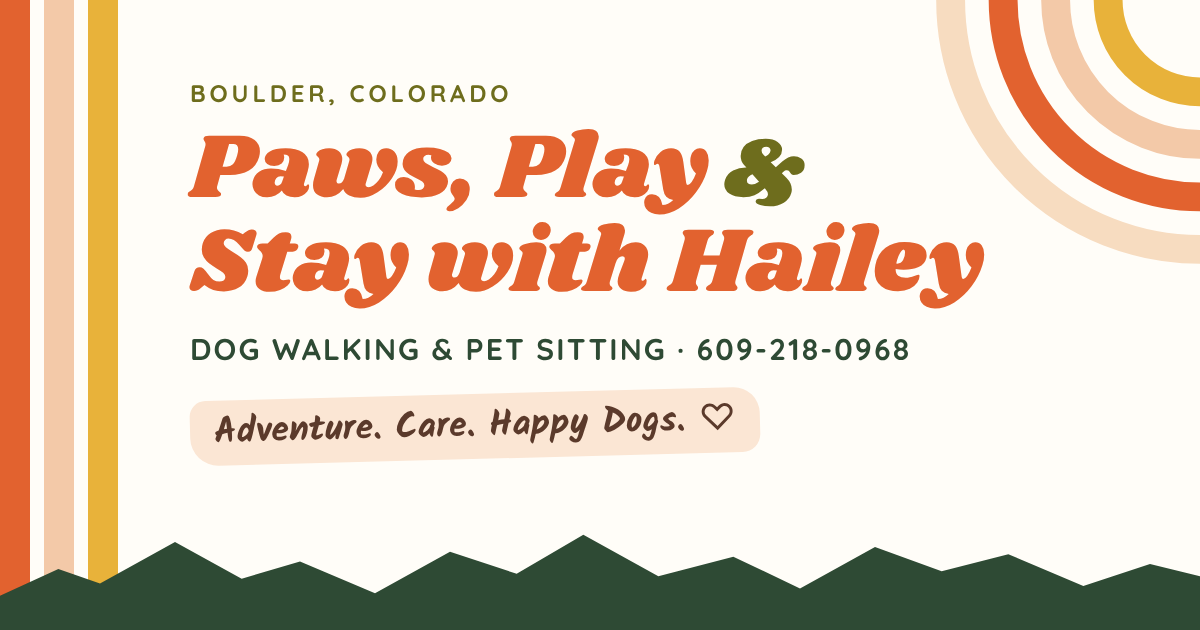
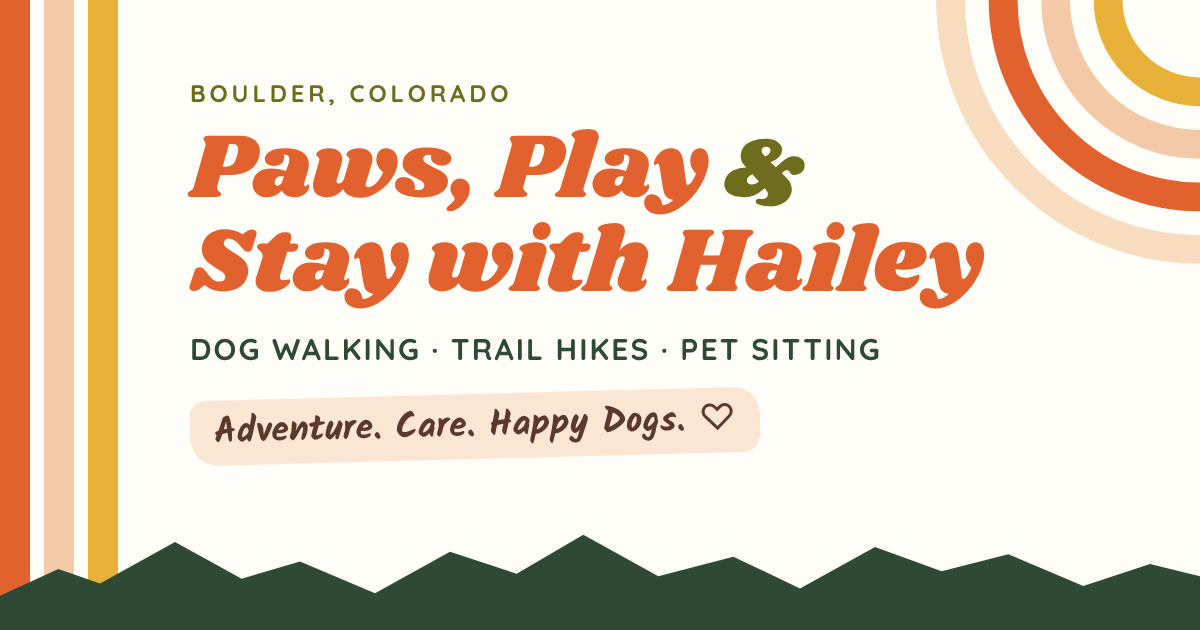
Remove phone number from the website
Drop it from the header, footer, JSON-LD, Contact section, form messages
and the social preview image.

Claude-Session: https://claude.ai/code/session_01D2PD2TkxPSfrQBo4dCsyeh

Changed region(s): [[0.3392, 0.5127, 0.7708, 0.573]]

diff --git a/index.html b/index.html
@@ -15,19 +15,19 @@
   <meta property="og:title" content="Dog Walking &amp; Pet Sitting in Boulder | Paws, Play &amp; Stay">
   <meta property="og:description" content="Personalized dog walking, trail hikes, overnight pet sitting and home boarding in Boulder, Colorado. Free meet-and-greet.">
   <meta property="og:url" content="https://pawsplaystaywithhailey.com/">
-  <meta property="og:image" content="https://pawsplaystaywithhailey.com/og-image.png">
+  <meta property="og:image" content="https://pawsplaystaywithhailey.com/og-image.png?v=2">
   <meta property="og:image:width" content="1200">
   <meta property="og:image:height" content="630">
   <meta property="og:image:alt" content="Paws, Play &amp; Stay with Hailey: dog walking and pet sitting in Boulder, Colorado">
   <meta name="twitter:card" content="summary_large_image">
   <meta name="twitter:title" content="Dog Walking &amp; Pet Sitting in Boulder | Paws, Play &amp; Stay">
   <meta name="twitter:description" content="Personalized dog walking, trail hikes, overnight pet sitting and home boarding in Boulder, Colorado. Free meet-and-greet.">
-  <meta name="twitter:image" content="https://pawsplaystaywithhailey.com/og-image.png">
+  <meta name="twitter:image" content="https://pawsplaystaywithhailey.com/og-image.png?v=2">
 
   <link rel="preconnect" href="https://fonts.googleapis.com">
   <link rel="preconnect" href="https://fonts.gstatic.com" crossorigin>
   <link href="https://fonts.googleapis.com/css2?family=Kalam:wght@700&family=Quicksand:wght@500;600;700&family=Shrikhand&display=swap" rel="stylesheet">
-  <link rel="stylesheet" href="css/styles.css?v=2026-11-24e">
+  <link rel="stylesheet" href="css/styles.css?v=2026-11-24f">
 
   <!-- Structured data. Add "email" and "openingHours" once known. -->
   <script type="application/ld+json">
@@ -38,10 +38,9 @@
     "name": "Paws, Play & Stay with Hailey",
     "alternateName": "Hailey Nardone Pet Care",
     "slogan": "Happy pets make a brighter Co.",
-    "telephone": "+1-609-218-0968",
     "description": "Dog walking, trail hikes, overnight pet sitting and home boarding in Boulder, Colorado and surrounding areas.",
     "url": "https://pawsplaystaywithhailey.com/",
-    "image": "https://pawsplaystaywithhailey.com/og-image.png",
+    "image": "https://pawsplaystaywithhailey.com/og-image.png?v=2",
     "priceRange": "$30–$80",
     "address": {
       "@type": "PostalAddress",
@@ -86,9 +85,6 @@
         <a href="#faq">FAQ</a>
         <a href="#contact">Contact</a>
       </nav>
-      <a class="header-phone" href="tel:+16092180968" aria-label="Call or text Hailey at 609-218-0968">
-        <svg width="18" height="18" viewBox="0 0 24 24" aria-hidden="true"><use href="#ico-phone"/></svg><span>609-218-0968</span>
-      </a>
       <a class="btn btn-accent header-cta" href="#book">Book With Hailey</a>
     </div>
   </header>
@@ -434,7 +430,7 @@
       <div>
         <p class="brand brand-foot"><svg class="brand-mark" width="28" height="28" viewBox="0 0 32 32" aria-hidden="true"><use href="#paw"/></svg> <span class="brand-name">Paws, Play <i>&amp;</i> Stay with Hailey</span></p>
         <p class="foot-tag">Happy pets make a brighter Co.</p>
-        <p>Loving, personalized pet care in Boulder, Colorado, and surrounding areas. Call or text <a href="tel:+16092180968">609-218-0968</a>.</p>
+        <p>Loving, personalized pet care in Boulder, Colorado, and surrounding areas.</p>
       </div>
       <nav aria-label="Footer">
         <a href="#services">Services</a>
@@ -461,7 +457,6 @@
     <symbol id="ico-drop" viewBox="0 0 32 32"><path d="M16 4c5 6.5 8 11 8 15a8 8 0 0 1-16 0c0-4 3-8.5 8-15Z"/></symbol>
     <symbol id="ico-heart" viewBox="0 0 24 24"><path d="M12 20.5C6 16.3 2.8 13.2 2.8 9.3A4.6 4.6 0 0 1 12 7a4.6 4.6 0 0 1 9.2 2.3c0 3.9-3.2 7-9.2 11.2Z" fill="none" stroke="currentColor" stroke-width="2.2" stroke-linejoin="round"/></symbol>
     <symbol id="ico-pin" viewBox="0 0 24 24"><path d="M12 2.5a7 7 0 0 0-7 7c0 5.2 7 12 7 12s7-6.8 7-12a7 7 0 0 0-7-7Zm0 9.6a2.6 2.6 0 1 1 0-5.2 2.6 2.6 0 0 1 0 5.2Z"/></symbol>
-    <symbol id="ico-phone" viewBox="0 0 24 24"><path d="M6.6 3.5 9 3l1.6 4.2-2 1.4a12 12 0 0 0 6.8 6.8l1.4-2L21 15l-.5 2.4a2.5 2.5 0 0 1-2.6 2A15.6 15.6 0 0 1 4.6 6.1a2.5 2.5 0 0 1 2-2.6Z"/></symbol>
     <symbol id="ridge" viewBox="0 0 1440 90"><path d="M0 90 V62 L70 40 L120 52 L210 18 L290 48 L360 34 L450 60 L540 26 L620 44 L700 12 L790 46 L880 30 L960 56 L1050 22 L1130 42 L1210 28 L1300 54 L1380 36 L1440 46 V90Z"/><path d="M150 52 l9 -24 l9 24Z M162 54 l7 -18 l7 18Z M1240 50 l9 -26 l9 26Z M1256 52 l7 -18 l7 18Z M640 46 l8 -20 l8 20Z"/></symbol>
     <symbol id="flatirons" viewBox="0 0 400 220">
       <circle cx="310" cy="60" r="26" fill="#f3d9a4" opacity=".9"/>
@@ -471,7 +466,7 @@
     </symbol>
   </svg>
 
-  <script src="js/config.js?v=2026-11-24e"></script>
-  <script src="js/main.js?v=2026-11-24e"></script>
+  <script src="js/config.js?v=2026-11-24f"></script>
+  <script src="js/main.js?v=2026-11-24f"></script>
 </body>
 </html>

diff --git a/css/styles.css b/css/styles.css
@@ -89,8 +89,6 @@ p { margin: 0 0 1em; }
 .site-nav { display: flex; gap: 2px; margin-left: auto; }
 .site-nav a { color: var(--brown); text-decoration: none; font-weight: 700; font-size: .93rem; padding: 8px 9px; border-radius: 8px; white-space: nowrap; }
 .site-nav a:hover { background: var(--peach-soft); }
-.header-phone { display: inline-flex; align-items: center; gap: 6px; color: var(--forest); text-decoration: none; font-weight: 700; font-size: .93rem; white-space: nowrap; }
-.header-phone svg { width: 18px; height: 18px; fill: var(--forest); }
 .header-cta { padding: .7em 1.1em; font-size: .92rem; white-space: nowrap; }
 .nav-toggle { display: none; background: none; border: 0; width: 44px; height: 44px; cursor: pointer; border-radius: 10px; }
 .nav-toggle .bars, .nav-toggle .bars::before, .nav-toggle .bars::after { display: block; width: 22px; height: 2.5px; border-radius: 2px; background: var(--brown); position: relative; margin: 0 auto; transition: transform .2s; }
@@ -280,15 +278,13 @@ p { margin: 0 0 1em; }
 @media (max-width: 1340px) {
   .car-prev { left: 6px; }
   .car-next { right: 6px; }
-  .header-phone span { display: none; }
 }
 @media (max-width: 1080px) {
   .site-nav { position: absolute; top: 100%; left: 0; right: 0; flex-direction: column; background: var(--paper); border-bottom: 1px solid var(--line); padding: 10px 20px 18px; display: none; }
   .site-nav.open { display: flex; }
   .site-nav a { padding: 12px 10px; font-size: 1rem; }
   .nav-toggle { display: block; order: 4; }
-  .header-phone { margin-left: auto; }
-  .header-phone span { display: inline; }
+  .header-cta { margin-left: auto; }
   .safety-grid { grid-template-columns: repeat(2, 1fr); }
 }
 @media (max-width: 860px) {
@@ -315,8 +311,6 @@ p { margin: 0 0 1em; }
   .brand-name { font-size: 1.1rem; }
   .brand-mark { width: 22px; height: 22px; }
   .header-inner { gap: 8px; }
-  .header-phone span { display: none; }
-  .header-phone svg { width: 22px; height: 22px; }
   .header-cta { font-size: .8rem; padding: .65em .85em; }
   .grid-2 { grid-template-columns: 1fr; }
   .services { grid-template-columns: 1fr; }

diff --git a/js/config.js b/js/config.js
@@ -15,7 +15,7 @@ window.SITE_CONFIG = {
   FORM_ENDPOINT: "",
 
   // Hailey's contact details. Leave empty to hide that option on the site.
-  PHONE: "609-218-0968",
+  PHONE: "",        // left empty on purpose so no number is published
   EMAIL: "",        // e.g. "hailey@example.com"
 
   // Link to Hailey's Google review page (from her Google Business Profile).

diff --git a/README.md b/README.md
@@ -10,7 +10,7 @@ https://pawsplaystaywithhailey.com/ (the old dmg159.github.io address redirects 
 |---|---|---|
 | `GOATCOUNTER_CODE` | Cookieless analytics plus form events (`form_start`, `generate_lead`, `form_error`). Nothing loads while it's empty. | Free signup at goatcounter.com |
 | `FORM_ENDPOINT` | The request form's Google Apps Script web app URL. It emails Hailey from her Workspace account (cc Dillon), logs a Google Sheet row and sends the customer a copy. While it's empty, the form asks visitors to call or text. | Follow [apps-script/SETUP.md](apps-script/SETUP.md) |
-| `PHONE`, `EMAIL` | Shown in the Contact section. Each is hidden while empty. The phone is set; it's also hard-coded in the header, footer and JSON-LD. | Hailey |
+| `PHONE`, `EMAIL` | Shown in the Contact section and form messages. Each is hidden while empty. The phone is intentionally left empty so it isn't published. | Hailey |
 | `GOOGLE_REVIEW_URL` | Shows the "Leave a Google review" button | Hailey's Google Business Profile |
 
 Once the email is known, also add `"email"` to the JSON-LD block in `index.html`.
